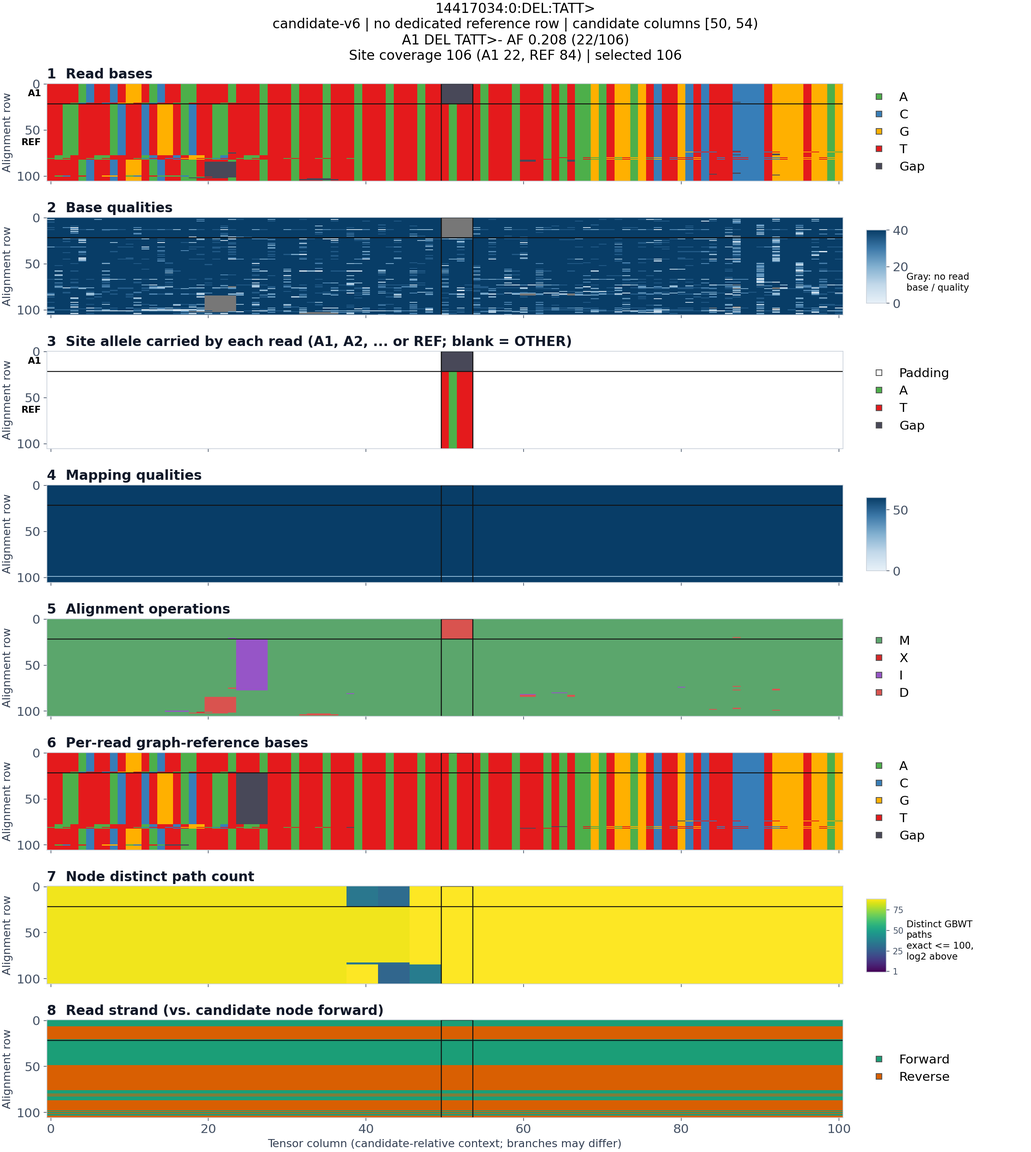
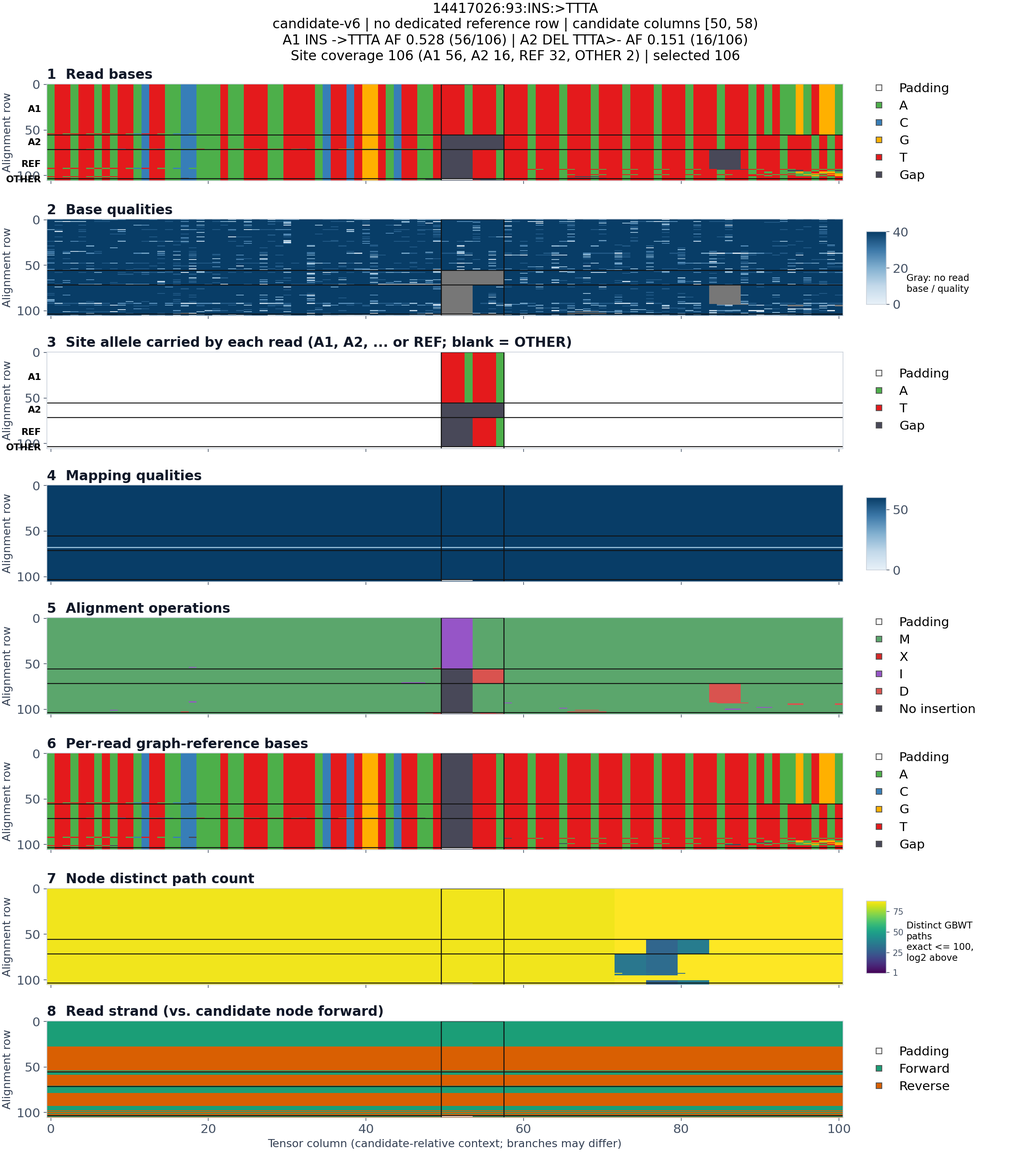
Supplement run for indels normalized off the target nodes; 98 of 100 v6 examples
- left_align_indels reports (from node, to node) moves; each builder writes
  displaced_nodes.tsv (nodes outside its batch that a target-node indel moved onto).
- orchestrate displaced: sums them over a run, drops covered nodes (and --exclude lists,
  --min-records 2 by default) and writes the node list of a supplement run, where those
  nodes are ordinary targets (full read sets, no duplicate sites).
- On the 98 example batches: 4,098 non-target nodes, 576 supplement INDEL sites, 44/44
  outputs pass validate_examples.py, 0 duplicate site ids; 111 of 6,028 v5 INDEL sites
  (1.8%) remain without an equivalent allele (branch-dependent normalization, AF threshold).
- Examples: 98 of 100 v6 images (matching now also searches neighbouring nodes in both
  directions and the supplement outputs); README and index.tsv explain the two missing.

diff --git a/indexed_gam_pipeline_v2/tests/test_left_align.py b/indexed_gam_pipeline_v2/tests/test_left_align.py
@@ -60,9 +60,13 @@ class LeftAlignTest(unittest.TestCase):
         sequences = {1: "C", 2: "AT", 3: "AT", 4: "G"}
         specs = [(1, 0, False, [(1, 1, "")]), (2, 0, False, [(2, 2, "")]), (3, 0, False, [(2, 2, ""), (0, 2, "AT")]),
                  (4, 0, False, [(1, 1, "")])]
-        for strand_specs in (specs, mirror(specs, sequences)):
+        left_end = [(1, 0, False, [(1, 1, "")]), (2, 0, False, [(0, 2, "AT"), (2, 2, "")]), (3, 0, False, [(2, 2, "")]),
+                    (4, 0, False, [(1, 1, "")])]
+        for strand_specs, moved in ((specs, [(3, 2)]), (mirror(specs, sequences), [(3, 2)]),
+                                    (mirror(left_end, sequences), [])):
             read = decode(strand_specs, sequences)
             self.assertEqual(candidates(read), [Candidate(2, 0, "", "AT", "INS")])
+            self.assertEqual(read.moves, moved)  # placed on node 3 -> moved to node 2; placed on node 2 -> stays
         # The previous node's end is the same boundary: it is attached to the next node's start.
         specs = [(1, 0, False, [(1, 1, ""), (0, 1, "G")]), (2, 0, False, [(2, 2, "")])]
         self.assertEqual(candidates(decode(specs, {1: "C", 2: "AT"})), [Candidate(2, 0, "", "G", "INS")])
@@ -140,6 +144,73 @@ class LeftAlignTest(unittest.TestCase):
                 other = decode(mirror(specs, sequences), sequences)
                 self.assertEqual(candidates(other), candidates(read))
                 self.assertEqual(mirrored_columns(other), columns_of(read))
+
+
+class SupplementRunTest(unittest.TestCase):
+    """An indel normalized off the target nodes is listed, and a supplement run over the list builds it."""
+
+    def test_displaced_indel_is_listed_and_recovered_with_both_strands(self):
+        from contextlib import redirect_stdout
+        import io
+        import json
+        from pathlib import Path
+        import tempfile
+        from fixtures import build_args, graph_fixture, write_gam
+        from indexed_gam_pipeline_v2.build import build
+        from indexed_gam_pipeline_v2 import orchestrate
+        sequences = {1: "C", 2: "AT", 3: "AT", 4: "G"}
+        # vg-like placement: forward reads at the repeat's right end (node 3), reverse reads at its
+        # left end (node 2 in forward coordinates).
+        forward = [(1, 0, False, [(1, 1, "")]), (2, 0, False, [(2, 2, "")]),
+                   (3, 0, False, [(2, 2, ""), (0, 2, "AT")]), (4, 0, False, [(1, 1, "")])]
+        left_end = [(1, 0, False, [(1, 1, "")]), (2, 0, False, [(0, 2, "AT"), (2, 2, "")]),
+                    (3, 0, False, [(2, 2, "")]), (4, 0, False, [(1, 1, "")])]
+        ref = [(n, 0, False, [(len(sequences[n]), len(sequences[n]), "")]) for n in (1, 2, 3, 4)]
+        rows = [spec_alignment(forward, sequences, name=f"f{i}") for i in range(3)]
+        rows += [spec_alignment(mirror(left_end, sequences), sequences, name=f"r{i}") for i in range(3)]
+        rows += [spec_alignment(ref, sequences, name=f"ref{i}") for i in range(4)]
+        with tempfile.TemporaryDirectory() as tmp:
+            root = Path(tmp)
+            gam = write_gam(root / "g.gam", rows)
+            graph = graph_fixture(root / "graph.sqlite", [(n, s, 5) for n, s in sequences.items()])
+            (root / "main.txt").write_text("3\n")  # vg's forward placement made only node 3 a target
+            common = dict(gam=str(gam), graph_index=str(graph), min_variants=1, min_af=.05, rows=12, width=11,
+                          max_indel_len=5, batch_nodes=4)
+            with redirect_stdout(io.StringIO()):
+                build(build_args(**common, nodes=str(root / "main.txt"), output=str(root / "main")))
+            self.assertEqual((root / "main/displaced_nodes.tsv").read_text(), "2\t3\n")
+            self.assertFalse((root / "main/variant_summary.ndjson").read_text())  # the site is not on node 3
+            (root / "supplement.txt").write_text("2\n")
+            with redirect_stdout(io.StringIO()):
+                build(build_args(**common, nodes=str(root / "supplement.txt"), output=str(root / "supplement")))
+            (site,) = [json.loads(line) for line in (root / "supplement/variant_summary.ndjson").read_text().splitlines()]
+            self.assertEqual((site["site_id"], site["alt_count"], site["coverage"]), ("2:0:INDEL", 6, 10))
+            self.assertEqual(site["site_counts"], {"A1": 6, "REF": 4})
+            self.assertEqual((root / "supplement/displaced_nodes.tsv").read_text(), "")
+
+    def test_displaced_command_collects_tasks_and_drops_covered_nodes(self):
+        import io
+        import json
+        from contextlib import redirect_stdout
+        from pathlib import Path
+        import tempfile
+        from indexed_gam_pipeline_v2 import orchestrate
+        with tempfile.TemporaryDirectory() as tmp:
+            root = Path(tmp)
+            (root / "targets.txt").write_text("5\n9\n")
+            (root / "earlier.txt").write_text("7\n")
+            config = dict(tasks=2, tensors=str(root / "tensors"), variant_outputs=dict(SNV=.06, INDEL=.08),
+                          inputs=dict(nodes=dict(path=str(root / "targets.txt"))))
+            (root / "config.json").write_text(json.dumps(config))
+            for i, table in enumerate(("4\t2\n7\t1\n", "4\t1\n9\t3\n8\t1\n")):
+                folder = root / "tensors/shared" / f"task_{i:04d}"
+                folder.mkdir(parents=True)
+                (folder / "displaced_nodes.tsv").write_text(table)
+            with redirect_stdout(io.StringIO()):
+                summary = orchestrate.displaced_nodes(root, root / "supplement.txt", [root / "earlier.txt"], 2)
+            self.assertEqual((root / "supplement.txt").read_text(), "4\n")  # 7 excluded, 9 a target, 8 < 2 records
+            self.assertEqual((summary["nodes"], summary["records"], summary["already_covered"], summary["below_min_records"]),
+                             (1, 3, 1, 2))
 
 
 def random_edits(rng, length, offset):

diff --git a/indexed_gam_pipeline_v2/examples/hg008_pacbio_v6/make_examples.py b/indexed_gam_pipeline_v2/examples/hg008_pacbio_v6/make_examples.py
@@ -4,9 +4,11 @@
 Every batch holding a v5 example was rebuilt with the v6 code (--debug-rows) into
 REBUILT/<task>_<batch>/{SNV,INDEL}. Each v5 example is matched to the v6 site that now
 holds it: the same candidate id among a site's alleles (position unchanged), else, for an
-indel moved by left-normalization, the nearest site to its left on the same node with an
-allele of the same type and length (the normalized allele; an insertion may be rotated),
-else the nearest site of the same kind on that node. index.tsv records the match, the v5
+indel moved by left-normalization, the nearest site to its left on the same node, else on a
+node at most 10 IDs away in either direction (the forward-strand left of a node need not have
+a lower ID), with an allele of the same type and length (the normalized allele; an
+insertion may be rotated), else the nearest site of the same kind on that node. Sites of
+the supplement run (indels normalized off the target nodes) are searched too. index.tsv records the match, the v5
 PNG, the site's alleles and the strand of the A1 rows (reverse fraction; one-strand = all
 of >= 3 A1 rows on one strand, read from the strand channel). Summaries are read with their
 --debug-rows audit cut out as text, and each example is rendered from a one-tensor copy.
@@ -24,7 +26,8 @@ import numpy as np
 HERE = Path(__file__).resolve().parent
 REPO = HERE.parents[2]
 V5 = HERE.parent / "hg008_pacbio_v5"
-REBUILT = Path(sys.argv[1] if len(sys.argv) > 1 else REPO / "tmp/v2_speedup_20260923/v6")
+REBUILT = Path(sys.argv[1] if len(sys.argv) > 1 else REPO / "tmp/v2_speedup_20260923/v6c/main")
+SUPPLEMENT = [Path(p) for p in sys.argv[2:]]  # supplement-run outputs (each with SNV/ and INDEL/)
 TIMING = Path("/scratch/jshen/data/HG008_GIAB/pansoma_v2_tensors/Liss_lab_PacBio_Revio_20240125/v5_tensors/shared")
 
 
@@ -44,10 +47,11 @@ def match(example, sites):
             return m, "same position"
     ref, alt = cid.split(":", 3)[3].split(">")
     length = len(alt) if kind == "INS" else len(ref)
-    moved = [m for m in sites if m["node_id"] == node and m["start"] <= start and any(
-        a["event_type"] == kind and a["event_length"] == length for a in m["alleles"])]
-    if moved:
-        return max(moved, key=lambda m: m["start"]), "left-normalized"
+    moved = [m for m in sites if (m["node_id"] == node and m["start"] <= start or 0 < abs(m["node_id"] - node) <= 10)
+             and any(a["event_type"] == kind and a["event_length"] == length for a in m["alleles"])]
+    if moved:  # the nearest such site: on this node to the left, else on a neighbouring (short) node
+        m = min(moved, key=lambda m: (abs(m["node_id"] - node), -m["start"]))
+        return m, "left-normalized" + (" to another node" if m["node_id"] != node else "")
     near = [m for m in sites if m["node_id"] == node]
     return (min(near, key=lambda m: abs(m["start"] - start)), "nearest site") if near else (None, "none")
 
@@ -97,13 +101,23 @@ def main():
         folder = REBUILT / f"{task}_{batch_of(task, node)}" / kind
         folders.setdefault(folder, None)
         wanted.append((ex, folder))
+    supplement = {}
+    for root in SUPPLEMENT:
+        for kind in ("SNV", "INDEL"):
+            with open(root / kind / "variant_summary.ndjson") as stream:
+                supplement.setdefault(kind, []).extend((root / kind, light(line)) for line in stream)
     for folder in folders:  # stream each summary once, dropping the debug rows record by record
         with open(folder / "variant_summary.ndjson") as stream:
-            folders[folder] = [light(line) for line in stream]
+            # a site of the batch, or of the supplement run (indels normalized off the targets)
+            folders[folder] = [(folder, light(line)) for line in stream] + supplement.get(folder.name, [])
     rows, jobs = ["\t".join(header)], []
     stage_root = REBUILT.parent / "v6_render_stage"
     for ex, folder in wanted:
-        m, how = match(ex, folders[folder])
+        owner = {id(m): f for f, m in folders[folder]}
+        m, how = match(ex, [m for _, m in folders[folder]])
+        folder = owner[id(m)] if m is not None else folder
+        if m is not None and folder.parent in SUPPLEMENT:
+            how += " (supplement run)"
         if m is None:
             rows.append("\t".join([ex["index"], "", ex["png"], how] + [""] * (len(header) - 4)))
             continue

diff --git a/indexed_gam_pipeline_v2/orchestrate.py b/indexed_gam_pipeline_v2/orchestrate.py
@@ -8,6 +8,8 @@
               predicted first when costs were recorded, else in index order; --resume skips
               tasks that already completed and validated
     task      run one task: builder subprocess, then validate its shards (used by `run`)
+    displaced after a run: the nodes left-normalization moved target indels onto that no
+              task covered, i.e. the node list of a supplement run (prepare it with --nodes)
 
 Layout under --root (bookkeeping) and --tensors (outputs; default <root>/tensors):
     <root>/source/                frozen package copy (hashes recorded in config.json)
@@ -499,6 +501,40 @@ def run(root, resume=False):
         write_json(root / "status.json", status)
 
 
+def displaced_nodes(root, output, exclude=(), min_records=2):
+    """Write the node list of a supplement run; returns a summary.
+
+    Left-normalization can move an indel from a target node onto a node that is not a
+    target of any task (tensors are only built on target nodes), so the site would be
+    missing. Every builder lists such nodes in displaced_nodes.tsv; this collects them over
+    all tasks, drops the run's own nodes and every node in `exclude` (e.g. earlier supplement
+    lists) and nodes seen in fewer than `min_records` records, and writes the rest sorted.
+    A supplement run over them (same options) builds those sites with their full read sets;
+    its own displaced_nodes can feed a further round until the list is empty.
+    """
+    root = Path(root).resolve()
+    config = read_json(root / "config.json")
+    counts = Counter()
+    for i in range(config["tasks"]):
+        outputs = task_outputs(root, config, i)
+        table = outputs.get("shared", outputs.get("ALL")) / "displaced_nodes.tsv"
+        for line in table.read_text().splitlines():
+            node, records = line.split("\t")
+            counts[int(node)] += int(records)
+    covered = [np.fromfile(str(config["inputs"]["nodes"]["path"]), dtype=np.int64, sep="\n")]
+    covered += [np.fromfile(str(path), dtype=np.int64, sep="\n") for path in exclude]
+    covered = np.unique(np.concatenate(covered))
+    nodes = np.array(sorted(n for n, c in counts.items() if c >= min_records), dtype=np.int64)
+    at = np.minimum(np.searchsorted(covered, nodes), max(len(covered) - 1, 0))
+    fresh = nodes[covered[at] != nodes] if len(covered) else nodes
+    Path(output).write_text("".join(f"{n}\n" for n in fresh.tolist()))
+    summary = dict(output=str(Path(output).resolve()), nodes=int(len(fresh)), displaced_nodes=len(counts),
+                   already_covered=int(len(nodes) - len(fresh)), below_min_records=len(counts) - int(len(nodes)),
+                   records=int(sum(counts[n] for n in fresh.tolist())))
+    print(json.dumps(summary, indent=2))
+    return summary
+
+
 def catalog_outputs(root, config):
     """outputs.json: every tensor directory of every task with its tensor count."""
     kinds = list(config["variant_outputs"] or ["ALL"])
@@ -535,6 +571,12 @@ def main(argv=None):
     r = commands.add_parser("run", help="execute all pending tasks")
     r.add_argument("--root", required=True)
     r.add_argument("--resume", action="store_true", help="skip validated tasks; set aside partial outputs and rerun them")
+    d = commands.add_parser("displaced", help="node list of a supplement run for indels normalized off the targets")
+    d.add_argument("--root", required=True)
+    d.add_argument("--output", required=True, help="node list to write (prepare a supplement run with --nodes)")
+    d.add_argument("--exclude", nargs="*", default=[], help="node lists already covered (e.g. earlier supplements)")
+    d.add_argument("--min-records", type=int, default=2,
+                   help="drop nodes seen in fewer records (default 2: on HG008 this halves the list and keeps 575 of 576 sites)")
     t = commands.add_parser("task", help="run and validate one task (used by `run`)")
     t.add_argument("--root", required=True)
     t.add_argument("--index", type=int, required=True)
@@ -543,6 +585,8 @@ def main(argv=None):
         prepare(args)
     elif args.action == "task":
         task(Path(args.root).resolve(), args.index)
+    elif args.action == "displaced":
+        displaced_nodes(args.root, args.output, args.exclude, args.min_records)
     else:
         run(args.root, args.resume)
 

diff --git a/indexed_gam_pipeline_v2/candidates.py b/indexed_gam_pipeline_v2/candidates.py
@@ -157,6 +157,8 @@ class Read:
     columns: list
     visits: list
     observations: list
+    # (from node, to node) of every indel that normalization moved to another node.
+    moves: list = field(default_factory=list, repr=False, compare=False)
     # Lazily built lookups (see visits_on / alt_quality); not part of the record's identity.
     _node_visits: dict = field(default=None, repr=False, compare=False)
     _alt_quality: dict = field(default=None, repr=False, compare=False)
@@ -261,11 +263,10 @@ def decode_alignment(alignment, sequences, max_indel=50, target_nodes=None, left
         visits.append(Visit(nid, lo, hi, reverse, mi, first, len(columns), len(forward)))
     if read_cursor != len(sequence):
         raise ValueError("GAM edits do not consume the complete read sequence")
-    if left_align:
-        left_align_indels(columns, visits, max_indel)
+    moves = left_align_indels(columns, visits, max_indel) if left_align else []
     observations += indel_observations(columns, visits, sequences, max_indel, target_nodes)
     digest = hashlib.sha256(alignment.SerializeToString(deterministic=True)).hexdigest()
-    return Read(alignment.name, digest, alignment.mapping_quality, columns, visits, observations), unsupported
+    return Read(alignment.name, digest, alignment.mapping_quality, columns, visits, observations, moves), unsupported
 
 
 # --- indel normalization --------------------------------------------------------
@@ -319,6 +320,7 @@ def left_align_indels(columns, visits, max_indel):
     attached to the graph base that follows it on the forward strand, so an insertion
     between two nodes is always (next node, offset of its first base). `visits`
     get their column ranges updated in place; their graph intervals do not change.
+    Returns [(from node, to node)] for every indel that ended on another node than it started.
     """
     runs = [r for r in indel_runs(columns, join_insertions=True) if r[1] - r[0] <= max_indel
             and not any("N" in (columns[k].read if r[2] == "I" else columns[k].ref).upper() for k in range(r[0], r[1]))]
@@ -326,8 +328,10 @@ def left_align_indels(columns, visits, max_indel):
     # process each in the direction it moves so a run only ever meets already-final ones.
     forward = sorted((r for r in runs if not columns[r[0]].reverse), key=lambda r: r[0])
     reverse = sorted((r for r in runs if columns[r[0]].reverse), key=lambda r: -r[0])
+    moves = []
     for s, e, op in forward + reverse:
         rev = columns[s].reverse
+        origin = columns[s].node
         while True:
             k = e if rev else s - 1  # the column on the forward-left side
             if not 0 <= k < len(columns):
@@ -386,6 +390,8 @@ def left_align_indels(columns, visits, max_indel):
                 owner = columns[e - 1] if rev else columns[s]
             columns[s:e] = [Column(c.read, c.ref, c.quality, c.op, owner.node, owner.pos, c.reverse, owner.visit, True)
                             for c in columns[s:e]]
+        if columns[s].node != origin:
+            moves.append((origin, columns[s].node))
     spans = {}
     for i, c in enumerate(columns):
         spans.setdefault(c.visit, [i, i])[1] = i + 1
@@ -393,6 +399,7 @@ def left_align_indels(columns, visits, max_indel):
     for visit in visits:  # mappings emptied by moving their only (inserted) columns keep an empty range
         visit.first, visit.last = spans.get(visit.index, (edge, edge))
         edge = visit.last
+    return moves
 
 
 def _read_base_quality(columns, i, step):

diff --git a/indexed_gam_pipeline_v2/build.py b/indexed_gam_pipeline_v2/build.py
@@ -18,6 +18,9 @@ Outputs (per output directory):
     manifest.json               format/encoding versions, parameters, provenance, counters, timing
     batch_timing.ndjson         per-batch stage seconds and counters (shared directory only)
     target_nodes.txt            the requested node list (shared directory only)
+    displaced_nodes.tsv         node, records: nodes outside the batch that left-normalization moved
+                                an indel of a target node onto (shared directory only; see
+                                orchestrate.py displaced / the README "supplement run")
 
 With --snv-output/--indel-output the GAM is read and decoded once; SNP tensors go
 to the SNV directory and INS/DEL tensors to the INDEL directory, each with its own
@@ -290,6 +293,7 @@ def _build_batches(args, nodes, reader, graph, shared, typed, started):
         return sum(s.manifest["tensors"] + s.buffered for s in sinks.values())
 
     timings = defaultdict(float)
+    displaced = Counter()  # node outside a batch -> records whose target-node indel normalization moved there
     for bi, batch in enumerate(batches(nodes, args.batch_nodes, args.max_node_span), 1):
         batch_started = time.perf_counter()
         wanted = set(batch)
@@ -318,6 +322,9 @@ def _build_batches(args, nodes, reader, graph, shared, typed, started):
             read, rejected = decode_alignment(alignments[ai], sequences, args.max_indel_len, target_nodes=wanted)
             alignments[ai] = None  # the decoded Read owns everything we still need
             reads.append(read)
+            for source, destination in read.moves:
+                if source in wanted and destination not in wanted:
+                    displaced[destination] += 1
             for node in {v.node for v in read.visits} & wanted:
                 by_node[node].append(read)
             candidates.update(o.candidate for o in read.observations if o.candidate.node in wanted)
@@ -387,6 +394,8 @@ def _build_batches(args, nodes, reader, graph, shared, typed, started):
         alignments.clear()
         if stop:
             break
+    (shared.path / "displaced_nodes.tsv").write_text("".join(f"{n}\t{c}\n" for n, c in sorted(displaced.items())))
+    shared.manifest["displaced_nodes"] = len(displaced)
     t = time.perf_counter()
     for sink in sinks.values():
         sink.flush()

diff --git a/indexed_gam_pipeline_v2/examples/hg008_pacbio_v6/README.md b/indexed_gam_pipeline_v2/examples/hg008_pacbio_v6/README.md
@@ -4,7 +4,7 @@ The v6 counterparts of the 100 v5 examples in `../hg008_pacbio_v5/`: each of the
 production batches holding a v5 example was rebuilt with the v6 code (`--debug-rows`,
 Slurm 363665; every output passed `validate_examples.py`, 196/196) and the site now holding
 the example was rendered as `<v5 name>_v6.png`, so each image can be compared with its v5
-original side by side. Regenerate with `make_examples.py <rebuilt batches>`.
+original side by side. Regenerate with `make_examples.py <rebuilt batches> <supplement outputs...>`.
 
 v6 changes visible here: indels left-normalized (both strands put a repeat indel at the same
 place), one tensor per site with every passing allele, channel 2 (panel 3) spells the allele
@@ -12,14 +12,18 @@ each row carries (A1, A2, ... or REF; blank = OTHER), rows in blocks A1.., REF, 
 and separators on panels 1 and 3) ordered by similarity inside each block, and path counts
 exact up to 100 (panel 7).
 
-`index.tsv`: the match (`same position`, `left-normalized` = the indel moved left, `nearest
-site`), the v6 site with all its alleles and AFs, site coverage and block counts, the strand
-of the A1 rows (`a1_one_strand` = all of >= 3 A1 rows on one strand) and the v5 values.
+`index.tsv`: the match (`same position`; `left-normalized` = the indel moved left on its node;
+`left-normalized to another node` = onto a neighbouring node, `(supplement run)` when that node
+is not a target and the site was built by the supplement run), the v6 site with all its alleles
+and AFs, site coverage and block counts, the strand of the A1 rows (`a1_one_strand` = all of
+>= 3 A1 rows on one strand) and the v5 values. The rebuild: 98 batches (Slurm 363680, main run
+byte-identical to the previous v6 build plus `displaced_nodes.tsv`), then a supplement run over
+the 4,098 non-target nodes that normalized indels landed on (576 INDEL sites; 44/44 outputs
+pass `validate_examples.py`); no site appears twice (7,589 INDEL site ids).
 
-**Known issue — 23 of the 100 examples have no v6 image (`match = none`), all indels.** Tensors
-are only built for discovery's target nodes, which were chosen from vg's *raw* indel
-placement. Left-normalization moves some indels onto a neighbouring node that is not a target
-(e.g. `034`: DEL T at node 41415778 moves across the single-base T nodes 41415777/41415776,
-neither a target), and those candidates are dropped; conversely indels that vg placed on
-non-target nodes can move into a target node and appear as new sites. The target-node
-selection has to be made consistent with normalization before regenerating the data.
+98 of the 100 examples have a v6 site. The two without (`082`, `086`, both 1-bp insertions in
+T homopolymers chopped into short nodes) lost their site for real: in `082` reads on different
+graph branches normalize the same insertion to two places (6 and 3 reads; neither passes the
+filters), in `086` the insertion's AF on its normalized site is 6/110 = 0.055, below the INDEL
+threshold 0.08 (v5: 10/110). Over the 98 batches 111 of 6,028 v5 INDEL sites (1.8 %) have no
+equivalent allele in v6, mostly at AF < 0.2 (see the v2 README, "supplement run").

diff --git a/indexed_gam_pipeline_v2/README.md b/indexed_gam_pipeline_v2/README.md
@@ -214,7 +214,36 @@ sbatch --cpus-per-task=24 --mem=420G --time=14-00:00:00 \
 
 # 3. if the job died (OOM, time limit, node failure): resume, redoing only unfinished tasks
 sbatch ... /path/to/run_root/run.sh --resume
+
+# 4. supplement run: sites of indels that left-normalization moved off the target nodes
+$PY -m indexed_gam_pipeline_v2.orchestrate displaced --root /path/to/run_root --output /path/to/supplement_nodes.txt
+$PY -m indexed_gam_pipeline_v2.orchestrate prepare --root /path/to/supplement_root --tensors /path/to/supplement_tensors \
+    --nodes /path/to/supplement_nodes.txt ...same options as step 1...
+sbatch ... /path/to/supplement_root/run.sh
+# (repeat step 4 on the supplement run with --exclude <earlier lists> until the list is empty)
 ```
+
+**Why a supplement run.** Tensors are only built on discovery's target nodes, and discovery
+chose them from vg's *raw* indel placement. Left-normalization (v6) moves some indels onto a
+neighbouring node that no task covers — typically across a homopolymer or STR chopped into
+1-bp nodes; the forward-strand left of a node need not have a lower node ID — and those sites
+would be missing (8 of the 100 examples in `examples/`, incl. INDELs at AF 0.2–0.35).
+Extending the target list instead is costly (the graph's 1-bp nodes: +160 % target nodes even
+for a 10-bp window on one side). So every
+builder lists, in `displaced_nodes.tsv`, the nodes outside its batch that a target-node indel
+was moved onto; `orchestrate displaced` sums them over all tasks, drops the run's own nodes
+(and `--exclude` lists) and writes the node list of a supplement run. There those nodes are
+ordinary targets: all reads covering them are fetched, so counts and AF are complete, and no
+site can be built twice (a node is in one list only). The supplement's own `displaced_nodes`
+can feed another round; normalized indels cannot move further, so it converges quickly.
+Measured on the 98 example batches (Slurm 363680): normalized indels landed on 4,110 nodes outside
+their batch, 4,098 of them no target; the supplement run over those built 576 INDEL sites (no SNV),
+all outputs pass `validate_examples.py`, no site id occurs twice in main + supplement (7,589), and
+218 alleles exist only thanks to it. It cost +51 % CPU of those (single-batch, cold-cache) main
+builds; `--min-records 2` (default) keeps 1,876 of the 4,098 nodes and 575 of the 576 sites.
+Afterwards 111 of the 6,028 v5 INDEL sites (1.8 %, mostly AF < 0.2) have no equivalent v6 allele:
+reads on different graph branches can normalize one indel to different places (splitting its
+support), and alleles near the AF threshold can fall below it.
 
 How it works:
 
